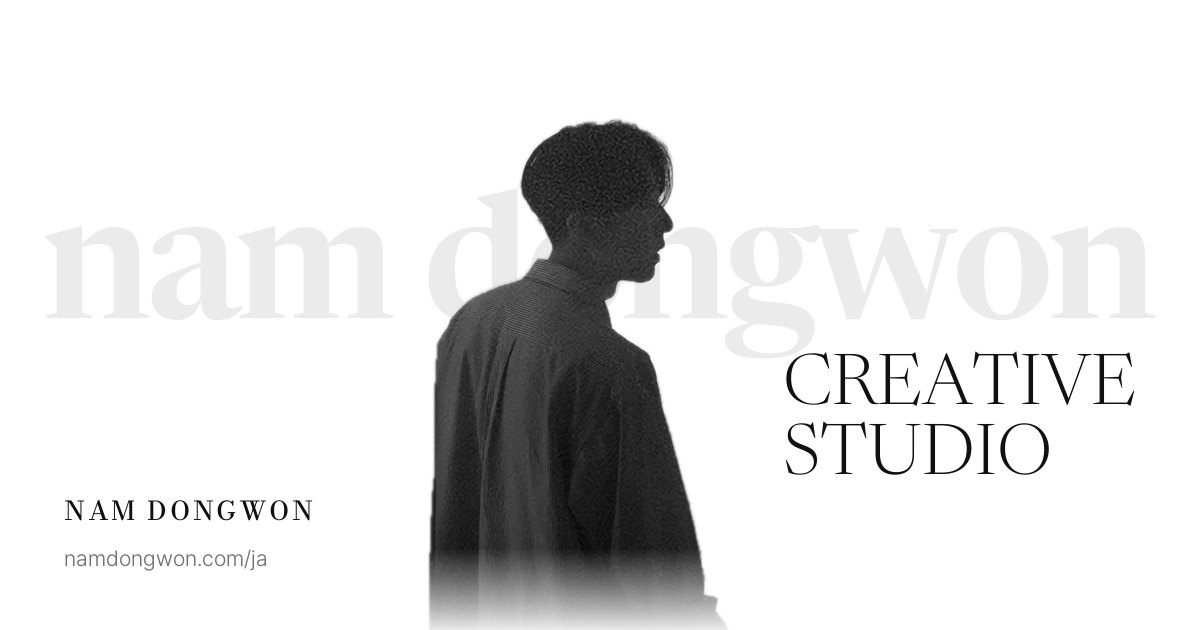
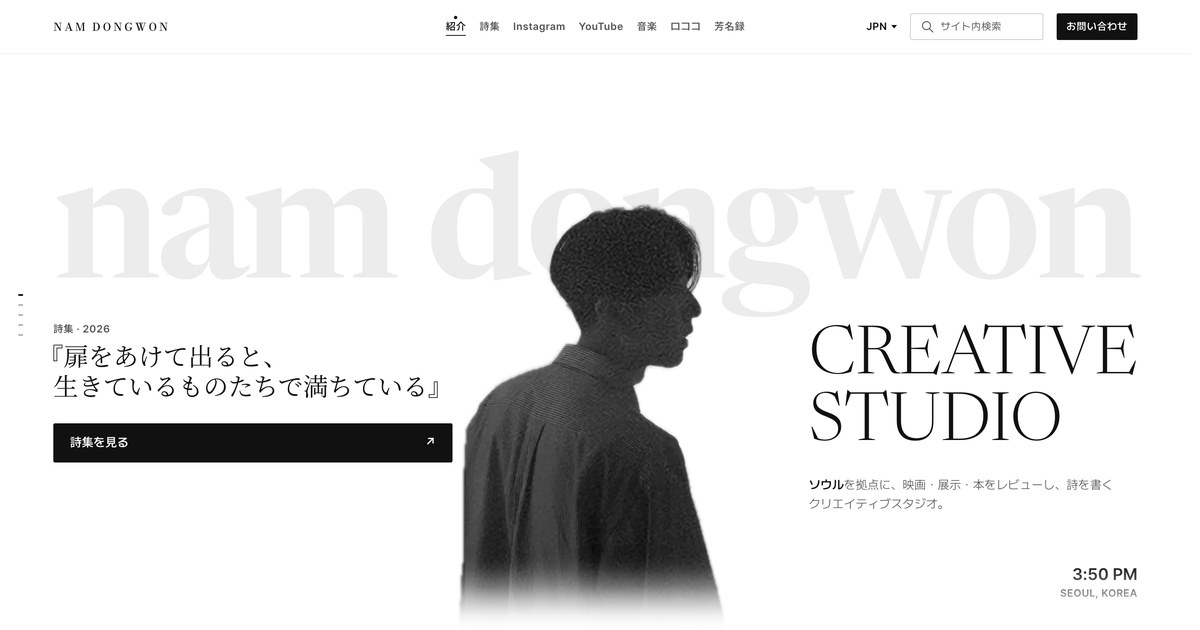
첫 화면 공유 카드를 진짜 첫 화면 캡처로 — og_shot.py가 여섯 판 첫 화면을 1440×756에서 찍어 content/og에 · 빌드는 옮기기만(make_og_home 뺌)
동원 "공유 카드 이런식으로 보여주는 게 더 멋있을 거 같아 딱 이런 느낌" → 시안 기준/브랜드 시안/공유카드랜딩시안_v2 → 버튼 "캡처 그대로 (권장)"(구석 시계 찍은 시각 그대로)
커서 점 · 동의 창 · 언어 안내 띠 · 프리로더 숨김, 움직임이 다 선 뒤 찍음 · 크롬 쪽지는 내 줄 덧붙이고 끝나면 내 줄만 뺌 · og:title · description 그대로
docs는 여섯 판 index.html og:image 줄 + og-home 그림 여섯만(다른 docs는 HEAD 그대로 — 작업 사본 캐시로 표장 글꼴 지문이 달라져 되돌림)

diff --git a/docs/ru/index.html b/docs/ru/index.html
@@ -22,7 +22,7 @@
 <meta property="og:url" content="https://namdongwon.com/ru/">
 <meta property="og:title" content="Нам Донвон — офисный служащий, который пишет стихи">
 <meta property="og:description" content="Сеул. Творческая студия: обзоры фильмов, выставок и книг — и стихи.">
-<meta property="og:image" content="https://namdongwon.com/assets/og-home-ru.jpg?v=4870744883">
+<meta property="og:image" content="https://namdongwon.com/assets/og-home-ru.jpg?v=6bd351ba4a">
 <meta property="og:image:width" content="1200">
 <meta property="og:image:height" content="630">
 <meta property="og:image:alt" content="Нам Донвон — офисный служащий, который пишет стихи">

diff --git a/docs/index.html b/docs/index.html
@@ -22,7 +22,7 @@
 <meta property="og:url" content="https://namdongwon.com/">
 <meta property="og:title" content="남동원 — 보는 것을 리뷰하는, 시를 쓰는 회사원">
 <meta property="og:description" content="서울에서 영화 · 전시 · 책을 보고 리뷰하고, 시를 쓰는 크리에이티브 스튜디오.">
-<meta property="og:image" content="https://namdongwon.com/assets/og-home.jpg?v=8a671bcf8a">
+<meta property="og:image" content="https://namdongwon.com/assets/og-home.jpg?v=14ddec1637">
 <meta property="og:image:width" content="1200">
 <meta property="og:image:height" content="630">
 <meta property="og:image:alt" content="남동원 — 보는 것을 리뷰하는, 시를 쓰는 회사원">

diff --git a/docs/fr/index.html b/docs/fr/index.html
@@ -22,7 +22,7 @@
 <meta property="og:url" content="https://namdongwon.com/fr/">
 <meta property="og:title" content="Dongwon Nam — employé de bureau qui écrit des poèmes">
 <meta property="og:description" content="Un studio créatif basé à Séoul, qui chronique films, expositions et livres, et écrit des poèmes.">
-<meta property="og:image" content="https://namdongwon.com/assets/og-home-fr.jpg?v=75107639bd">
+<meta property="og:image" content="https://namdongwon.com/assets/og-home-fr.jpg?v=8c837828aa">
 <meta property="og:image:width" content="1200">
 <meta property="og:image:height" content="630">
 <meta property="og:image:alt" content="Dongwon Nam — employé de bureau qui écrit des poèmes">

diff --git a/docs/ja/index.html b/docs/ja/index.html
@@ -22,7 +22,7 @@
 <meta property="og:url" content="https://namdongwon.com/ja/">
 <meta property="og:title" content="ナム・ドンウォン — 詩を書く会社員">
 <meta property="og:description" content="ソウルを拠点に、映画・展示・本をレビューし、詩を書くクリエイティブスタジオ。">
-<meta property="og:image" content="https://namdongwon.com/assets/og-home-ja.jpg?v=0372147491">
+<meta property="og:image" content="https://namdongwon.com/assets/og-home-ja.jpg?v=dc8d712e67">
 <meta property="og:image:width" content="1200">
 <meta property="og:image:height" content="630">
 <meta property="og:image:alt" content="ナム・ドンウォン — 詩を書く会社員">

diff --git a/docs/en/index.html b/docs/en/index.html
@@ -22,7 +22,7 @@
 <meta property="og:url" content="https://namdongwon.com/en/">
 <meta property="og:title" content="Dongwon Nam — An office worker who writes poems">
 <meta property="og:description" content="A creative studio based in Seoul, reviewing films, exhibitions and books, and writing poems.">
-<meta property="og:image" content="https://namdongwon.com/assets/og-home-en.jpg?v=54239acb7e">
+<meta property="og:image" content="https://namdongwon.com/assets/og-home-en.jpg?v=28ee68b084">
 <meta property="og:image:width" content="1200">
 <meta property="og:image:height" content="630">
 <meta property="og:image:alt" content="Dongwon Nam — An office worker who writes poems">

diff --git a/docs/es/index.html b/docs/es/index.html
@@ -22,7 +22,7 @@
 <meta property="og:url" content="https://namdongwon.com/es/">
 <meta property="og:title" content="Dongwon Nam — oficinista que escribe poemas">
 <meta property="og:description" content="Un estudio creativo en Seúl que reseña películas, exposiciones y libros, y escribe poemas.">
-<meta property="og:image" content="https://namdongwon.com/assets/og-home-es.jpg?v=41748ce180">
+<meta property="og:image" content="https://namdongwon.com/assets/og-home-es.jpg?v=32ead56cbe">
 <meta property="og:image:width" content="1200">
 <meta property="og:image:height" content="630">
 <meta property="og:image:alt" content="Dongwon Nam — oficinista que escribe poemas">

diff --git a/build.py b/build.py
@@ -470,7 +470,7 @@ def consent_html(L, gid, site_label, cid=""):  # cid: Clarity 프로젝트 ID(11
 def book_card(site):
     # 출간일 공유 카드(10/27 동원 "공유 카드는 B로 하자"): 나온 날(book.published)부터 book.card_until 전날까지는 링크 미리보기를 책 카드로
     # (그림 og-book.jpg · og-book-en.jpg + og:title을 책 제목으로) — 그 밖엔 이름 카드. 정적 사이트라 그날 뒤 처음 빌드할 때 바뀜
-    # 11/21부터 책 카드는 시집 쪽(/book/)에만 — 첫 화면(/)은 늘 첫 화면 카드(og-home · make_og_home, 동원 "공유시 책 페이지가 아닌 내 랜딩페이지가 나오게" → 시안 공유카드랜딩시안_v1 'B (권장)')
+    # 11/21부터 책 카드는 시집 쪽(/book/)에만 — 첫 화면(/)은 늘 첫 화면 카드(og-home — 11/21 저녁부터 진짜 첫 화면 캡처 og_shot.py, 동원 "공유시 책 페이지가 아닌 내 랜딩페이지가 나오게" → 시안 공유카드랜딩시안_v1 'B (권장)')
     bk = site["book"]
     return date.fromisoformat(bk["published"]) <= build_day() < date.fromisoformat(bk.get("card_until", "9999-12-31"))
 
@@ -1281,48 +1281,6 @@ def make_og(site, cover, src, lang="ko", words=None):
     d.rectangle((x - 1, y - 1, x + c.width, y + ch), outline="#e2e2e2")
     im.paste(c, (x, y))
     im.save(ASSETS / out, "JPEG", quality=86, optimize=True)
-
-
-def make_og_home(src, host, lang="ko"):
-    # 첫 화면(/) 공유 카드(11/21 동원 "공유시 책 페이지가 아닌 내 랜딩페이지가 나오게" → 시안 기준/브랜드 시안/공유카드랜딩시안_v1 → 버튼 "B 첫 화면 닮은 카드 (권장)"):
-    # 첫 화면(.tk)과 같은 짜임 — 옅은 큰 이름 nam dongwon(Newsreader 600 · --mark) 앞에 선 사람(아래로 흐려짐) · 오른쪽 CREATIVE / STUDIO(Newsreader 300) ·
-    # 왼쪽 아래 표장 NAM DONGWON(Bodoni Moda 500) + 주소. 글은 여섯 판 같고(첫 화면도 영어 그대로) 주소 끝만 판마다 — og-home.jpg · og-home-<말>.jpg
-    from PIL import ImageChops
-    W, H = 1200, 630
-    im = Image.new("RGB", (W, H), "white")
-    d = ImageDraw.Draw(im)
-    word = load("ui.json")["tk_word"]["ko"]
-    size = 230
-    while vfont(src["NR"], size, (600, 72)).getlength(word) - 0.035 * size * (len(word) - 1) > W - 80:
-        size -= 2
-    big = vfont(src["NR"], size, (600, 72))
-    x = (W - (big.getlength(word) - 0.035 * size * (len(word) - 1))) / 2  # 글자 사이 -.035em(style.css .tk-w)
-    for c in word:
-        d.text((x, 318), c, font=big, fill="#ebebeb", anchor="ls")
-        x += big.getlength(c) - 0.035 * size
-    if ME_IMG.exists():
-        me = ImageOps.exif_transpose(Image.open(ME_IMG)).convert("LA")
-        ph = 520
-        me = me.resize((round(me.width * ph / me.height), ph), Image.LANCZOS)
-        fade = Image.new("L", me.size, 255)
-        fd = ImageDraw.Draw(fade)
-        for i in range(90):  # 아래 90px 흐려 사라짐(첫 화면 사진 아래처럼)
-            fd.line((0, ph - 90 + i, me.width, ph - 90 + i), fill=round(255 * (1 - i / 90)))
-        g = me.getchannel(0)
-        pic = Image.merge("RGBA", (g, g, g, ImageChops.multiply(me.getchannel(1), fade)))
-        im.paste(pic, (round((W - pic.width) / 2) - 20, H - ph + 8), pic)
-    sf = vfont(src["NR"], 70, (300, 72))
-    words = load("ui.json")["tk_big"]["ko"].split("|")
-    lx = W - 64 - max(sf.getlength(w) for w in words)
-    for i, w in enumerate(words):
-        d.text((lx, 352 + i * 70), w, font=sf, fill="#111111")
-    lf = vfont(src["LOGO"], 26, tuple(LOGO_FONT[3][k] for k in ("wght", "opsz")))
-    x = 64
-    for c in LOGO_FONT[1]:  # 표장 글자 사이 .1em(헤더 .logo와 같은 결)
-        d.text((x, 520), c, font=lf, fill="#111111", anchor="ls")
-        x += lf.getlength(c) + 2.6
-    d.text((64, 566), host + (f"/{lang}" if lang in TR else ""), font=font(src["Pretendard-Light.otf"], 22), fill="#717171", anchor="ls")
-    im.save(ASSETS / (f"og-home-{lang}.jpg" if lang in TR else "og-home.jpg"), "JPEG", quality=86, optimize=True)
 
 
 OG_PAGES = ("photo", "video", "guestbook")  # 쪽마다 공유 카드(11/4 동원 'A 지금 틀 그대로 (권장)' — 목업 공유카드시안_v2): 이 쪽들은 이름 카드 대신 제 그림 · 제 한 줄
@@ -3258,12 +3216,17 @@ def main():
     elif "og-ru.jpg" in keep:
         (ASSETS / "og-ru.jpg").write_bytes(keep["og-ru.jpg"])
     make_og_pages(site, photos, srcs, keep)  # 쪽마다 공유 카드(11/4)
-    for lg in LANGS:  # 첫 화면 공유 카드(11/21 B) — 원본 글꼴이 없으면(시험 사본) 지난 그림
+    for lg in LANGS:  # 첫 화면 공유 카드 — 11/21 동원 "공유 카드 이런식으로 보여주는 게 더 멋있을 거 같아 딱 이런 느낌"(진짜 첫 화면 캡처): og_shot.py가 찍어 둔
+        # content/og/og-home(-<말>).jpg를 그대로 옮김(빌드는 크롬을 띄우지 않음 · 첫 화면 모습이 바뀌면 og_shot.py를 다시 돌려 커밋) · 없으면 지난 그림 · 그것도 없으면 이름 카드
         out = f"og-home-{lg}.jpg" if lg in TR else "og-home.jpg"
-        if all(k in srcs for k in ("NR", "Pretendard-Light.otf")) and (PTD_DIR / LOGO_FONT[2]).exists():
-            make_og_home({**srcs, "LOGO": PTD_DIR / LOGO_FONT[2]}, site["base_url"].replace("https://", "").rstrip("/"), lg)
+        shot = CONTENT / "og" / out
+        if shot.exists():
+            (ASSETS / out).write_bytes(shot.read_bytes())
         elif out in keep:
             (ASSETS / out).write_bytes(keep[out])
+        else:
+            shutil.copyfile(ASSETS / (f"og-{lg}.jpg" if lg in TR else "og.jpg"), ASSETS / out)
+            print(f"알림: content/og/{out}가 없어 이름 카드로 대신함 — 빌드 뒤 og_shot.py로 찍으세요")
     if book_card(site):  # 출간일 책 카드 기간(10/27 B) — 쪽의 og 태그도 이 그림 · 책 제목을 가리킴(render)
         ui = load("ui.json")
         ptd = ("Pretendard-Light.otf", "Pretendard-SemiBold.otf")

diff --git a/og_shot.py b/og_shot.py
@@ -1,0 +1,100 @@
+"""첫 화면(/ · 여섯 판) 공유 카드 그림을 진짜 화면으로 찍는다 — content/og/og-home.jpg · og-home-<말>.jpg (1200×630)
+
+11/21 동원 "공유 카드 이런식으로 보여주는 게 더 멋있을 거 같아 딱 이런 느낌"(꾸민 카드 대신 첫 화면을 그대로 찍은 모습).
+빌드(build.py)는 크롬을 띄우지 않고 찍어 둔 그림을 docs/assets에 그대로 옮기기만 함 — 그래서 첫 화면 모습(헤더 · 큰 이름 · 사람 · 메뉴 이름)이
+바뀌면 이 스크립트를 다시 돌려 그림을 새로 찍고 커밋한다.
+
+쓰는 법(웹사이트 폴더에서): 먼저 빌드 → tools/.venv/bin/python og_shot.py
+- 빌드된 docs를 이 맥 안 임시 서버로 열어 넓은 창 1440×756(1.91:1 · 화면 배율 2)에서 맨 위를 찍고 1200×630으로 줄임
+- 커서 점 · 동의 창 · 언어 안내 띠 · 프리로더는 숨기고, 첫 화면 등장 움직임이 다 선 뒤에 찍음
+- 헤드리스 크롬은 크롬 쪽지(tools/site_tests/크롬 쓰는 중.txt)에 내 줄을 덧붙이고 쓰며, 끝나면 내 줄만 뺌 — 시험 전체(QA · run_all) 줄이 있으면 기다리라고 알리고 멈춤
+  (11/21 이어 받기 세션 '다른 줄이 있어도 내 줄을 덧붙이고 30초 찍은 뒤 내 줄만 빼' — 쪽지를 여러 세션이 함께 쓰는 중)
+- 임시 크롬 프로필은 끝나면 지움
+"""
+import base64
+import functools
+import http.server
+import io
+import os
+import shutil
+import sys
+import tempfile
+import threading
+import time
+from datetime import datetime
+from pathlib import Path
+
+from PIL import Image
+
+HERE = Path(os.path.realpath(__file__)).parent
+TOOLS = Path(os.path.realpath(HERE.parent / "tools"))
+sys.path.insert(0, str(TOOLS))
+import web_record as wr  # noqa: E402 — 헤드리스 크롬을 파이프로 다루는 도구(tools 저장소)
+
+DOCS, OUT = HERE / "docs", HERE / "content" / "og"
+LANGS = ("ko", "en", "ja", "ru", "es", "fr")
+NOTE = TOOLS / "site_tests" / "크롬 쓰는 중.txt"
+W, H, DPR = 1440, 756, 2
+HIDE = "#cz,#pl,.cur,.ttp,.rip,.lsug{display:none!important}"
+
+
+def main():
+    if not (DOCS / "index.html").exists():
+        raise SystemExit("docs가 없어요 — 먼저 build.py로 빌드하세요")
+    now = NOTE.read_text(encoding="utf-8") if NOTE.exists() else ""
+    if any(w in ln for ln in now.splitlines() for w in ("QA", "run_all")):
+        raise SystemExit("크롬 쪽지에 시험 전체 줄이 있어요 — 끝난 뒤 다시 돌리세요:\n" + now)
+    mine = f"{datetime.now():%m/%d %H:%M} og_shot.py — 첫 화면 공유 카드 찍기(약 30초)\n"
+    with NOTE.open("a", encoding="utf-8") as f:
+        f.write(("" if not now or now.endswith("\n") else "\n") + mine)
+    srv = http.server.ThreadingHTTPServer(("127.0.0.1", 0), functools.partial(QuietHandler, directory=str(DOCS)))
+    threading.Thread(target=srv.serve_forever, daemon=True).start()
+    prof = tempfile.mkdtemp(prefix="ogshot-")
+    c = None
+    try:
+        c = wr.CDP(["--headless=new", "--remote-debugging-pipe", "--no-first-run", "--hide-scrollbars", f"--user-data-dir={prof}", "about:blank"])
+        tid = c.send("Target.createTarget", {"url": "about:blank"})["targetId"]
+        s = c.send("Target.attachToTarget", {"targetId": tid, "flatten": True})["sessionId"]
+        c.send("Emulation.setDeviceMetricsOverride", {"width": W, "height": H, "deviceScaleFactor": DPR, "mobile": False}, s)
+        for d in ("Runtime", "Page"):
+            c.send(f"{d}.enable", None, s)
+        c.send("Page.addScriptToEvaluateOnNewDocument", {"source": "try { localStorage.setItem('lsug', '1') } catch (e) {}"}, s)
+        OUT.mkdir(parents=True, exist_ok=True)
+        base = f"http://127.0.0.1:{srv.server_address[1]}/"
+        for lang in LANGS:
+            c.send("Page.navigate", {"url": base + ("" if lang == "ko" else f"{lang}/")}, s)
+            c.wait_event("Page.loadEventFired", 60)
+            ev = lambda x: c.send("Runtime.evaluate", {"expression": x, "awaitPromise": True, "returnByValue": True}, s)["result"].get("value")  # noqa: E731
+            ev("document.fonts.ready.then(() => 1)")
+            ev(f"(() => {{ const st = document.createElement('style'); st.textContent = {HIDE!r}; document.head.appendChild(st); return 1 }})()")
+            end = time.time() + 15
+            while time.time() < end and not ev("!!document.querySelector('.tk.go.pgo')"):
+                c.pump(0.1)
+            t0 = time.time()
+            while time.time() - t0 < 3:  # 등장 움직임(글 · 사람 · 메뉴 점)이 다 서도록
+                c.pump(0.1)
+            png = base64.b64decode(c.send("Page.captureScreenshot", {"format": "png"}, s)["data"])
+            im = Image.open(io.BytesIO(png)).convert("RGB").resize((1200, 630), Image.LANCZOS)
+            out = OUT / (f"og-home-{lang}.jpg" if lang != "ko" else "og-home.jpg")
+            im.save(out, "JPEG", quality=88, optimize=True)
+            print(f"{out.relative_to(HERE)}  {out.stat().st_size // 1024} KB")
+    finally:
+        if c:
+            try:
+                c.close()
+            except Exception:
+                pass
+        shutil.rmtree(prof, ignore_errors=True)
+        srv.shutdown()
+        if NOTE.exists():  # 내 줄만 뺌(그새 다른 세션이 덧붙인 줄은 그대로)
+            left = NOTE.read_text(encoding="utf-8").replace(mine, "", 1)
+            NOTE.write_text(left, encoding="utf-8")
+
+
+class QuietHandler(http.server.SimpleHTTPRequestHandler):
+    def log_message(self, *a):
+        pass
+
+
+if __name__ == "__main__":
+    main()

diff --git a/README.md b/README.md
@@ -79,7 +79,7 @@
 ## 시집 칸 — 출간 소식 · 상태 낱말
 
 - 책 카드 제목 위 상태 낱말과 '시집 소식'은 빌드한 날(서울)을 봅니다. `book.published`(나온 날) 전이면 '출간 예정', 그날부터 '판매 중'.
-- 첫 화면(/ · 여섯 판) 공유 카드(11/21 B — 시안 `기준/브랜드 시안/공유카드랜딩시안_v1`): 늘 첫 화면 카드 `og-home.jpg` · `og-home-<말>.jpg`(옅은 큰 이름 · 사람 · CREATIVE STUDIO · 표장 · 주소 — `make_og_home`) · og:title은 이름 한 줄(탭 제목 꼴) · og:description은 첫 화면 문장 `ui.json` `tk_about`. 아래 책 카드 기간은 이제 시집 쪽(/book/)에만 걸림
+- 첫 화면(/ · 여섯 판) 공유 카드(11/21 — 진짜 첫 화면 캡처): `og-home.jpg` · `og-home-<말>.jpg`는 `og_shot.py`가 빌드된 docs의 각 판 첫 화면을 1440×756으로 찍어 `content/og/`에 둔 그림(커서 점 · 동의 창 · 언어 안내 띠 · 프리로더 숨김, 움직임이 다 선 뒤) — 빌드는 옮기기만 함. **헤더 · 첫 화면 모습이 바뀌면 빌드 뒤 `tools/.venv/bin/python og_shot.py`로 다시 찍어 커밋하고 한 번 더 빌드**(크롬 쪽지 규칙을 지킴). og:title은 이름 한 줄(탭 제목 꼴) · og:description은 첫 화면 문장 `ui.json` `tk_about`. 아래 책 카드 기간은 시집 쪽(/book/)에만 걸림
 - 링크 미리보기(공유 카드, 10/27 B): `book.published`부터 `book.card_until` 전날까지(지금 2026-11-01 ~ 2026-12-31)는 책 카드 — 그림 `og-book.jpg` · `og-book-en.jpg`('이름 첫 시집' → 큰 제목 → 굵은 부제 → '● 판매 중 · `book.store`' — 사이트 첫 화면과 같은 차례)와 og:title '『책 제목』 — 이름 첫 시집'(`ui.json`의 `og_book_kick` · `og_book_title`). 그 밖엔 이름 카드(`og.jpg` · `og-en.jpg`, 늘 만들어 둠). 탭 제목은 늘 이름. 그림 파일 이름을 달리해야 카카오가 새 그림을 읽음 — 예전에 공유된 주소에 옛 카드가 남으면 카카오 공유 디버거에서 캐시 초기화(카카오 계정)
 - 소식은 `news.json`의 `items`에 한 줄씩 — `{"date": "2026-11-01", "text": "…", "en": {"text": "…"}}`(순서는 상관없음, 빌드가 최근 것부터 세움). 날짜는 한국어판 '2026.11.01' · 영어판 'November 1, 2026'(같은 쪽 다른 영어 날짜와 같은 꼴 — `build.py`의 `dtxt`, 방명록 · 찾기의 소식 날짜도 같음, 영어판 소식 날짜 칸 106px — 10/27 점검). 날짜가 지난 것만 나오고, 최근 세 줄 + 나머지는 '지난 소식 ↓'로 접힙니다. 책에 일어난 일(출간 · 서명본 · 북토크 · 새 판)을 적는 자리이고, 사이트를 고친 날은 판권면이 맡습니다.
 - 정적 사이트라 날이 지나도 저절로 바뀌지 않습니다 — 나온 날이 지나면 한 번 다시 빌드해 올려야 '판매 중'과 소식이 나옵니다. 미리 보려면 `SITE_TODAY=2026-11-01 python3 build.py`(판권면 '고친 날'도 그 날로 찍히므로 올릴 때는 빼고 빌드).
